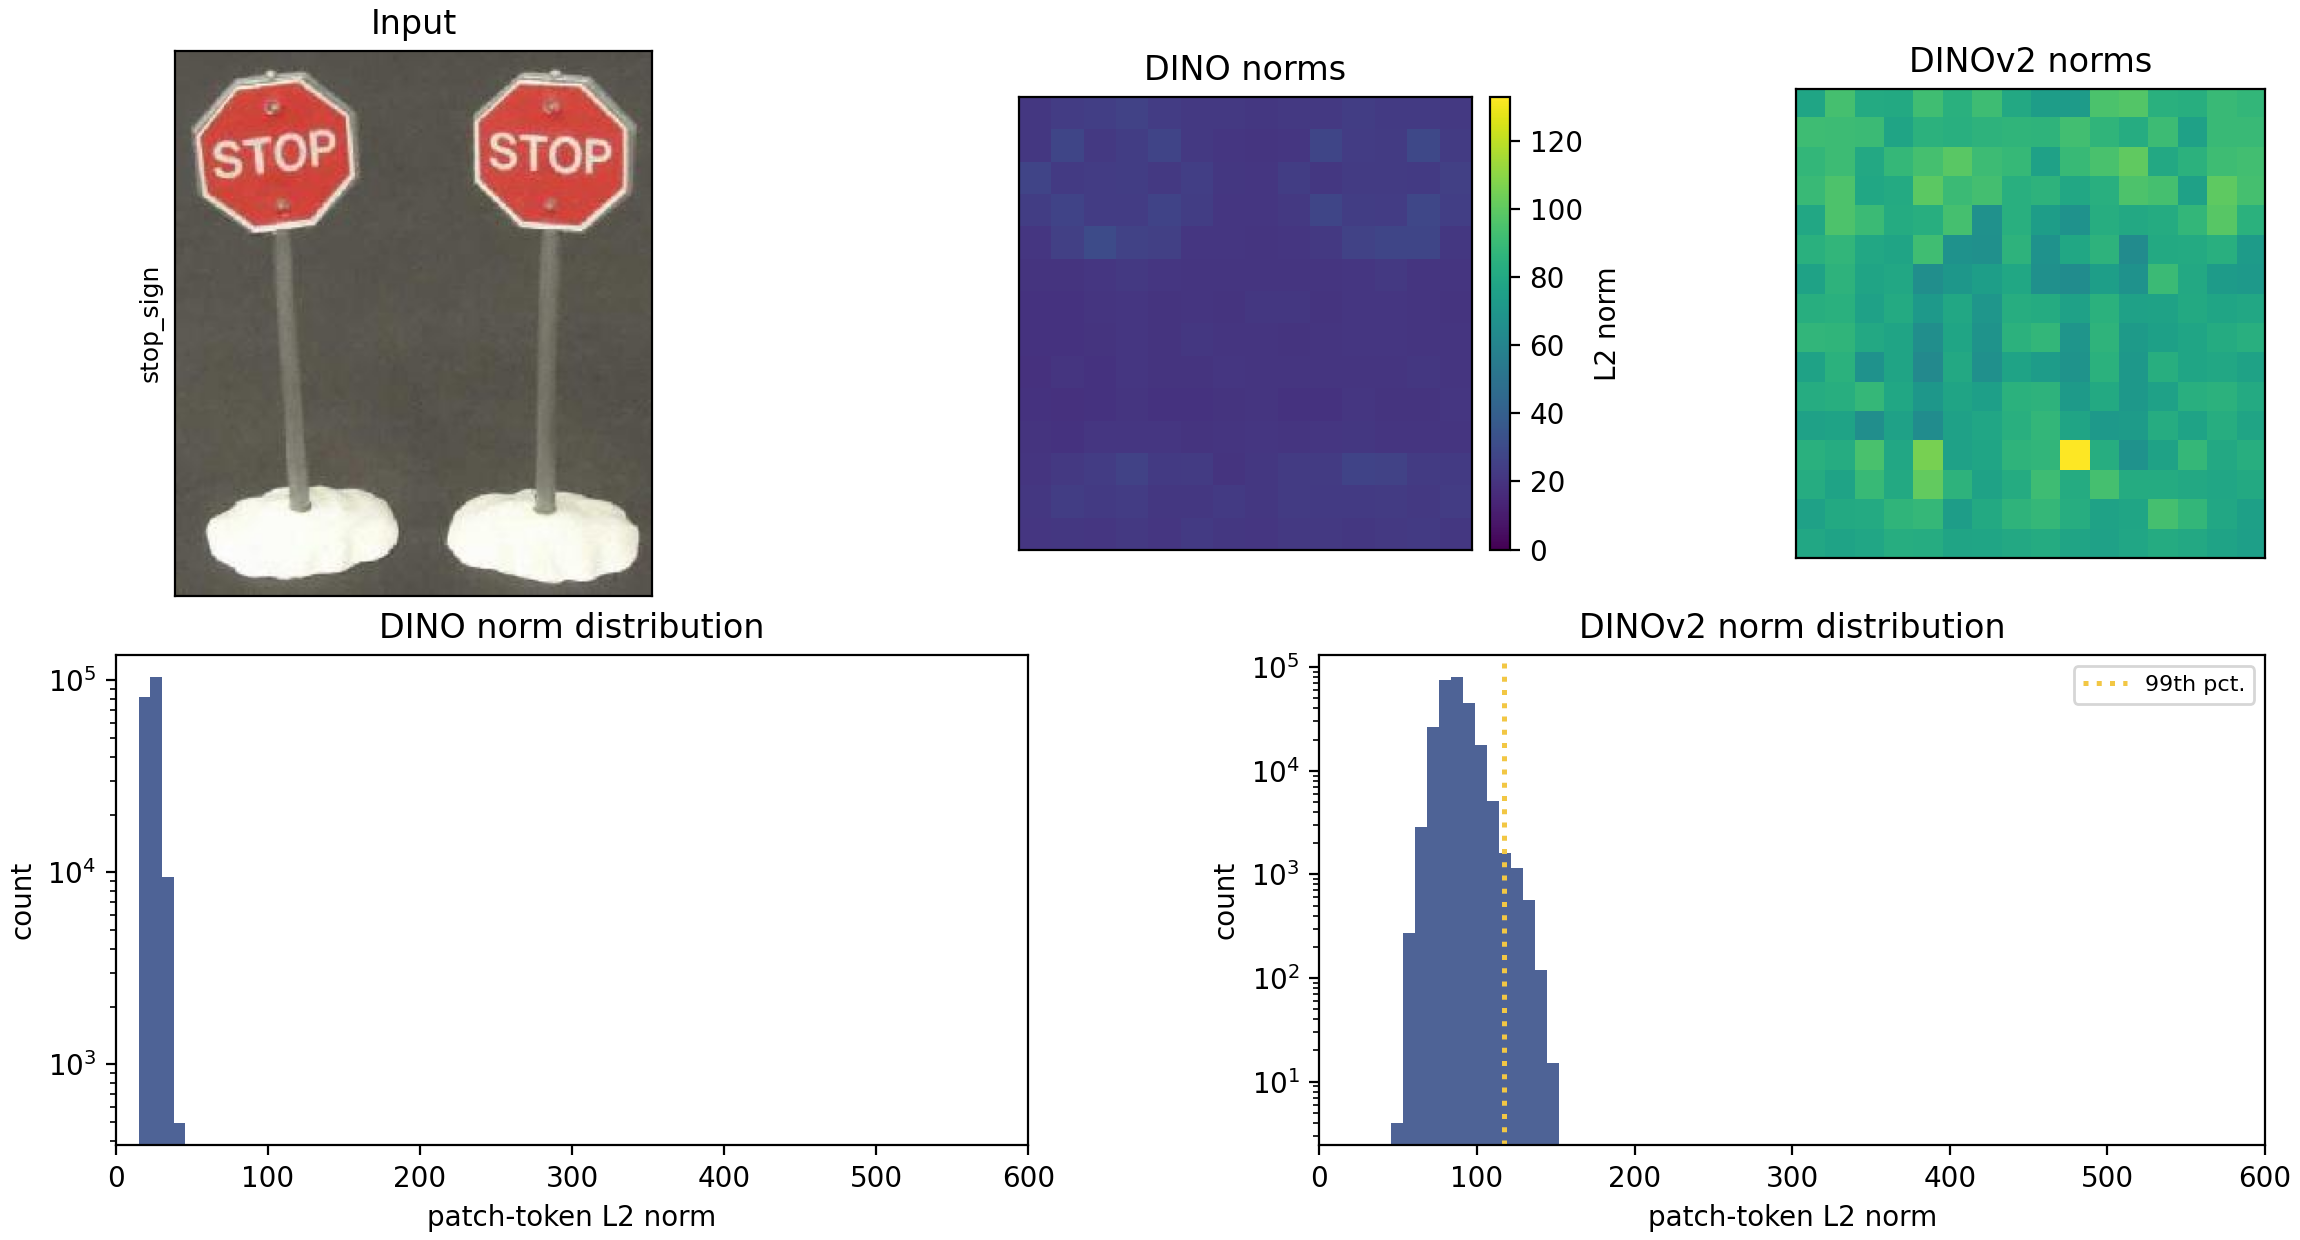
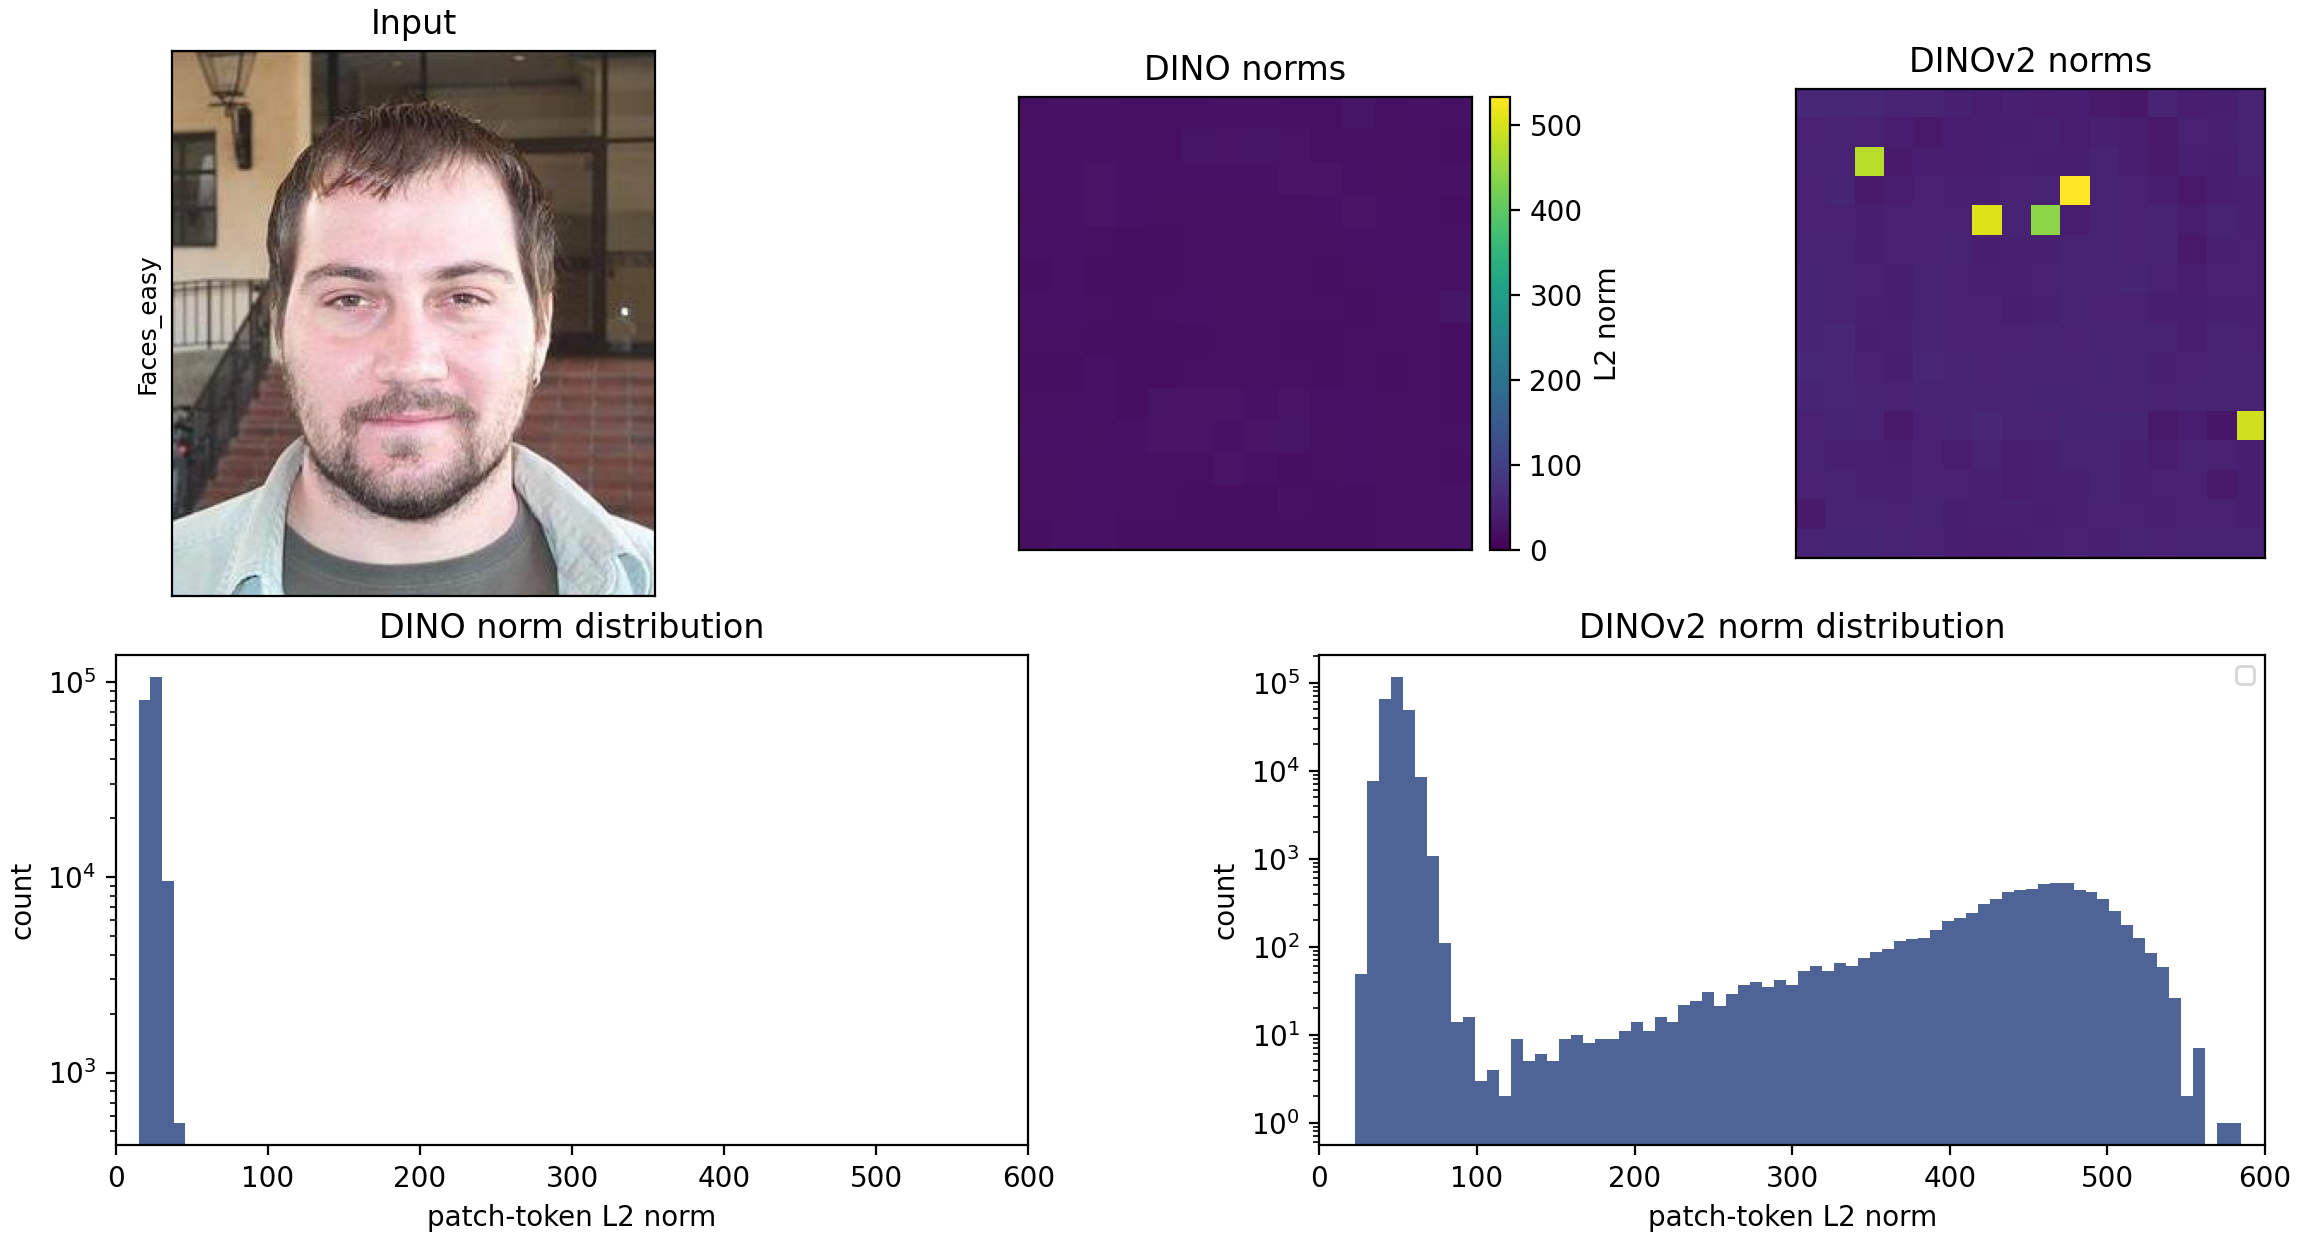
Revise sections on feature maps artifacts, methodology, and results; add figures and update discussions

diff --git a/report/ATML_Report_2026/inputs/K/methodology.tex b/report/ATML_Report_2026/inputs/K/methodology.tex
@@ -1,84 +1,43 @@
 \subsection{Methodology}
+
+
+
 This reproduction did \emph{not} use the authors' original code. Instead, it used an original implementation located under \texttt{src/Kun/scripts}, with one script per reproduced result: \texttt{make\_figure2.py}, \texttt{make\_figure3.py}, \texttt{make\_figure5.py}, and \texttt{make\_table1.py}. The implementation follows the procedure described in the paper and relies on public pretrained checkpoints loaded through \texttt{timm}, \texttt{open\_clip\_torch}, and Hugging Face \texttt{transformers}. Dataset loading is done through \texttt{torchvision} where possible otherwise is done through direct download from the dataset official website.
 
-\subsubsection{Datasets}
-
-\paragraph{Figures 2, 3, and 5.}
-all runs for Figures~2, 3, and 5 uses \texttt{Caltech101 via torchvision} as the image source.
-
-
-\paragraph{Table 1 datasets.}
-We use a subset of the following datasets:
-\texttt{cifar10, 10 classes}, \texttt{cifar100, 100 classes}, \texttt{caltech101, 101 classes}, \texttt{dtd, 47 classes}, \texttt{aircraft, 100 classes} , \texttt{flowers102, 102 classes}, \texttt{food101, 101 classe}. For each datasets we sample 500 training and 200 test images balanced across labels.
 
 \subsubsection{Hyperparameters}
-
-The most important hyperparameter across these experiments is the minimum norm value a patch feature vector must have in order to be considered as an outlier patch. In the paper this cutoff value is set heuristically to 150. 
-\begin{itemize}
-    \item For the 2 experiments in figure5 we use the same cutoff value.
-    \item For the Table1 experiments, outliers are defined using a soft cutoff equal to the 99th percentile of training-set patch norms, so that approximately 1\% of patches are labeled as outliers. In addition, if a given image contains no outlier patch under this rule, we fall back to selecting the highest-norm patch from that image as its outlier token.
-\end{itemize}
-
-\begin{table}[h]
-    \centering
-    \caption{Hyperparameters for the Figure~5b linear probes.}
-    \label{tab:figure5b-hparams}
-    \begin{tabular}{ll}
-        \toprule
-        Hyperparameter & Value \\
-        \midrule
-        Train fraction & 0.75 \\
-        Max epochs & 80 \\
-        Batch size & 512 \\
-        Learning rate & 0.001 \\
-        Optimizer & AdamW \\
-        Weight decay & $10^{-4}$ \\
-        Early stopping patience & 3 \\
-        Position probe loss & Cross-entropy \\
-        Reconstruction probe loss & MSE \\
-        Feature dimension & 1536 \\
-        Number of positions & 256 \\
-        Pixel target dimension & 588 \\
-        \bottomrule
-    \end{tabular}
-\end{table}
+The most important hyperparameter across these experiments is the minimum norm value a patch feature vector must have in order to be considered as an outlier patch. In the paper, this cutoff is chosen heuristically as 150; we use the same value unless otherwise specified.
 
 \subsubsection{Experimental setup and code}
 
-\paragraph{Figure 2 attention maps.}
-\texttt{make\_figure2.py} loads the 6 model families indicated by the paper and outputs the attention map, extracted from the last self-attention layer, of 4 random images.
 
-\paragraph{Figure 3 norm analysis.}
-\texttt{make\_figure3.py} compares the local features norms distribution for \texttt{DINO ViT-B/16} and \texttt{DINOv2 ViT-g/14} both on a single image and on a batch of 1000 images.
+\textbf{Visualization of attention maps (Paper Figure 2)}. We run 6 ViT models on 4 images sampled from \texttt{Caltech101} and visualize the attention map from the last self-attention layer. 
 
-\paragraph{Figure 5 local information probing.}
-\texttt{make\_figure5.py} uses\texttt{DINOv2 ViT-g/14} only and compares the cosine similarity of outlier/normal patches to its neighbor patches across 100 images. 
-In addition it performs linear probing for local information by training:
-\begin{itemize}
-    \item a linear classifier for patch-position prediction, and
-    \item a linear regressor for patch-pixel reconstruction.
-\end{itemize}.
-Linear probing is done with 500 images. 
+\textbf{DINO vs DINOv2 local feature norms (Paper Figure 3)}. We compare the local features norms distribution for \texttt{DINO ViT-B/16} and \texttt{DINOv2 ViT-g/14} both on a single image and on a batch of 1000 images sampled from \texttt{Caltech101}.
 
-\paragraph{Table 1 image classification probes.}
-\texttt{make\_table1.py} uses \texttt{DINOv2 ViT-g/14} as a frozen feature extractor:
-For each image in the dataset, the script extracts three candidate representations: the \texttt{[CLS]} token, one normal patch token, and one outlier patch token. It then trains three separate multinomial logistic regression classifiers, one per representation type.
+\textbf{Local properties of outlier patches (Paper Figure 5)}. We compare the distribution of cosine similarity between input patches embeddings and their 4 neighbors for both normal patches and outlier patches. In addition we perform linear probing for local information on both normal and outlier patches by training:
+namely (i) a linear classifier for patch-position prediction and (ii) a linear regressor for patch-pixel reconstruction.
+Probings are done with 500 images sampled from \texttt{Caltech101}. Normal and outlier patches are both present in the training split while we test them separately on evaluation. We report the hyperparameter of the 2 linear models: 
+\begin{table}[h]
+    \centering
+    \label{tab:figure5b-hparams}
+    \resizebox{\textwidth}{!}{%
+    \begin{tabular}{llllllllllll}
+        % \toprule
+        Train fraction & Max epochs & Batch size & Learning rate & Optimizer & Weight decay & Early stopping patience & Position probe loss & Reconstruction probe loss & Feature dimension & Number of positions & Pixel target dimension \\
+        \midrule
+        0.75 & 80 & 512 & 0.001 & AdamW & $10^{-4}$ & 3 & Cross-entropy & MSE & 1536 & 256 & 588 \\
+        \bottomrule
+    \end{tabular}%
+    }
+\end{table}
+The model used as features extractor is \texttt{DINOv2 ViT-g/14}
 
-\paragraph{Parameter counts.}
-The scripts do not record parameter counts. Insert the values here if they are needed in the final report:
+\textbf{Global properties of outlier patches (Paper Table 1)}
+We compare the class predictive capacity of different patch tokens: for each image we extract three candidate representations: the \texttt{[CLS]} token, one normal patch token, and one outlier patch token. We then trains three separate multinomial logistic regression classifiers, one per representation type. We fit the model on 8 different datasets, for each dataset we sample 500 images for training and 200 images for evaluation. If a certain image doesn't contain any outlier patch (norma > 150) we pick the the patch with the highest norm as outlier. The model used as features extractor is \texttt{DINOv2 ViT-g/14}
 
 
 \subsubsection{Computational requirements}
-The experiments executed locally on an Apple M4 Pro machine with 24\,GB unified memory. The mps backend is used whenever is possible; when some torch implementation are known to be unstable we fall back to cpu. 
+The experiments executed locally on an Apple M4 Pro machine with 24\,GB unified memory. The mps backend is used whenever is possible; when some torch implementation are known to be unstable we fall back to cpu.
+For experiment 1 the runtime is neglectable for every ViT model, for experiment 2 is $\approx 10 min$, for experiment 3 $\approx 10 min$, for experiment 4 $\approx 40 min$.  
 
-The following runtime and compute values should therefore be inserted from recorded experiment logs rather than inferred here:
-\begin{itemize}
-    \item \texttt{[INSERT AVERAGE RUNTIME FOR FIGURE 2 IN CPU MODE]}
-    \item \texttt{[INSERT AVERAGE RUNTIME FOR FIGURE 3 IN CPU MODE]}
-    \item \texttt{[INSERT AVERAGE RUNTIME FOR FIGURE 5a IN CPU MODE]}
-    \item \texttt{[INSERT AVERAGE RUNTIME FOR FIGURE 5b IN CPU MODE]}
-    \item \texttt{[INSERT AVERAGE RUNTIME FOR TABLE 1 PER DATASET]}
-    \item \texttt{[INSERT TOTAL WALL-CLOCK TIME / CPU-HOURS FOR THE REPORTED RUNS]}
-\end{itemize}
-
-Qualitatively, the most expensive operations in the scripts are repeated forward passes through DINOv2, especially in exact mode (\texttt{facebook/dinov2-giant}) and on larger datasets. Table~1 and Figure~5b are the most computationally demanding scripts because they combine feature extraction with downstream probe fitting.

diff --git a/report/ATML_Report_2026/inputs/K/results.tex b/report/ATML_Report_2026/inputs/K/results.tex
@@ -1,69 +1,31 @@
 \subsection{Results}
 \label{sec:results}
-The 4 experiments are intended to verify 4 qualitative claims of the original paper in relation to the main characteristic and information stored inside outlier patches embeddings. 
-The experiments confirms these claims 
+The 4 experiments are intended to verify 4 qualitative claims of the original paper in relation to the main characteristic and information stored inside outlier patches tokens representation. 
 
 \subsubsection{Results reproducing original paper}
 
-\subsubsubsection{Claim 1: all models but DINO exhibit peaky outlier values
-in the attention maps.}
+\textbf{Claim 1: all models but DINO exhibit peaky outlier values
+in the attention maps.} Our attention maps reproduce faithfully those in the paper where all models but DINO exhibit peaky outlier values (see \ref{fig:outlier_maps})
 
-% insert plot figure2
-\begin{figure}[ht]
-    \centering
-    \includegraphics[width=0.7\textwidth]{../../src/Kun/img/figure2_att_map.png}
-    \caption{Attention maps for 6 different model families.}
-    \label{fig:figure2}
-\end{figure}
+\textbf{Claim 2: DINOv2 has a few outlier patches, whereas DINO does not present these artifacts.}. Across 1000 images our experiment confirms that DINO does not present outlier patches whereas DINOv2 has them. The norm distribution of features extracted by DINO and DINOv2 resembles the distribution presented in the paper (see \ref{fig:dino_vs_dinov2})
 
-\subsubsubsection{Claim 2: DINOv2 has a few outlier patches, whereas DINO does not present these artifacts.}
-% insert plot figure3
-\begin{figure}[ht]
-    \centering
-    \includegraphics[width=0.7\textwidth]{../../src/Kun/img/figure3_norms.png}
-    \caption{Norm distribution of local features for DINO and DINOv2.}
-    \label{fig:figure3}
-\end{figure}
+\textbf{Claim 3: high-norm tokens appear where patch information is redundant and hold little local information}. Our experiment confirms that high norm tokens appears on patches that are very similar to their neighbors (see histogram in fig \ref{fig:neighbor_cosine}). Local probe results show that these high norm tokens hold little local information compared to normal norm tokens (see table in fig \ref{fig:neighbor_cosine}) since they achieve lower scores both in patch position prediction and patch reconstruction. 
 
-\subsubsubsection{Claim 3: high-norm tokens appear where patch information is redundant and hold little local information}
-% insert figure5a 
-\begin{figure}[ht]
-    \centering
-    \includegraphics[width=0.5\textwidth]{../../src/Kun/img/figure5a_neighbor_cosine.png}
-    \caption{Cosine similarity of outlier/normal patches to their neighbors.}
-    \label{fig:figure5a}
-\end{figure}
-
-% insert table 5b
-\begin{table}[h]
-    \centering
-    \footnotesize
-    \caption{Figure 5b local information probing results.}
-    \label{tab:figure5b-local-probes}
-    \begin{tabular}{lccc}
-        \toprule
-        Token group & Position top-1 acc. (\%) & Avg. distance & Reconstruction $L_2$ error \\
-        \midrule
-        Normal  & 19.4 & 1.19 & 17.78 \\
-        Outlier & 9.7  & 5.92 & 22.64 \\
-        \bottomrule
-    \end{tabular}
-\end{table}
-
-\subsubsubsection{Claim 4: high-norm tokens hold global information}
+\textbf{Claim 4: high-norm tokens hold global information}
+Our experiment confirms that outlier tokens have higher accuracy on global class prediction, compared to normal tokens, across all 8 datasets that we tasted proving that they contains more global information (see table \ref{tab:global-probes}). 
 
 \begin{table}[h]
     \centering
     \footnotesize
-    \caption{Reproduced Table~1 top-1 accuracy (\%) for classification from the \texttt{[CLS]} token, one normal patch token, and one outlier patch token.}
-    \label{tab:table1-probes}
+    \caption{Top-1 accuracy (\%) for classification from the \texttt{[CLS]} token, one normal patch token, and one outlier patch token.}
+    \label{tab:global-probes}
     \begin{tabular}{lcccccccc}
         \toprule
         Token & CIFAR10 & CIFAR100 & Caltech101 & DTD & FGVCAircraft & Flowers102 & Food101 & OxfordIIITPet \\
         \midrule
-        \texttt{[CLS]} & 99.00 & 85.00 & 92.00 & 77.00 & 51.50 & 99.50 & 79.00 & 92.50 \\
-        Normal patch   & 82.50 & 29.50 & 41.00 & 44.00 & 3.50  & 23.50 & 10.50 & 14.50 \\
-        Outlier patch  & 99.00 & 83.00 & 94.50 & 79.00 & 45.00 & 99.00 & 73.50 & 84.50 \\
+        \texttt{[CLS]} & 99.0 & 85.0 & 92.0 & 77.0 & 51.5 & 99.5 & 79.0 & 92.5 \\
+        Normal patch   & 82.5 & 29.5 & 41.0 & 44.0 & 3.5  & 23.5 & 10.5 & 14.5 \\
+        Outlier patch  & 99.0 & 83.0 & 94.5 & 79.0 & 45.0 & 99.0 & 73.5 & 84.5 \\
         \bottomrule
     \end{tabular}
 \end{table}

diff --git a/report/ATML_Report_2026/inputs/K/appendix.tex b/report/ATML_Report_2026/inputs/K/appendix.tex
@@ -1,0 +1,41 @@
+% insert plot figure2
+\begin{figure}[h]
+    \centering
+    \includegraphics[width=0.9\textwidth]{../../src/Kun/img/figure2_att_map.png}
+    \caption{Attention maps for 6 different model families.}
+    \label{fig:outlier_maps}
+\end{figure}
+
+% insert plot figure3
+\begin{figure}[h]
+    \centering
+    \includegraphics[width=0.9\textwidth]{../../src/Kun/img/figure3_norms.png}
+    \caption{Norm distribution of local features for DINO and DINOv2.}
+    \label{fig:dino_vs_dinov2}
+\end{figure}
+
+% insert figure5a 5b
+\begin{figure}[h]
+    \centering
+    \begin{minipage}{0.40\textwidth}
+        \centering
+        \includegraphics[width=\textwidth]{../../src/Kun/img/figure5a_neighbor_cosine.png}
+    \end{minipage}\hspace{0.02\textwidth}
+    \begin{minipage}{0.50\textwidth}
+        \centering
+        \footnotesize
+        \label{tab:local_probe}
+        \resizebox{\linewidth}{!}{%
+        \begin{tabular}{lccc}
+            \toprule
+            Token group & Position top-1 acc. (\%) & Avg. distance & Reconstruction $L_2$ error \\
+            \midrule
+            Normal  & 19.4 & 1.19 & 17.78 \\
+            Outlier & 9.7  & 5.92 & 22.64 \\
+            \bottomrule
+        \end{tabular}
+        }
+    \end{minipage}
+    \caption{local information probing: cosine similarity of outlier/normal patches to their neighbors (left) and local probe results (right).}
+    \label{fig:neighbor_cosine}
+\end{figure}

diff --git a/report/ATML_Report_2026/inputs/K/discussion.tex b/report/ATML_Report_2026/inputs/K/discussion.tex
@@ -1,16 +1,9 @@
 \subsection{Discussion}
 
-Give your judgment on if your experimental results support the claims of the paper. Discuss the strengths and weaknesses of your approach - perhaps you didn't have time to run all the experiments, or perhaps you did additional experiments that further strengthened the claims in the paper.
+All our experiments confirm claims from the paper regarding the definition of outlier patches and their information content compared to normal patches. 
 
 \subsubsection{What was easy}
-Give your judgment of what was easy to reproduce. Perhaps the author's code is clearly written and easy to run, so it was easy to verify the majority of original claims. Or, the explanation in the paper was really easy to follow and put into code. 
-
-Be careful not to give sweeping generalizations. Something that is easy for you might be difficult for others. Put what was easy in context and explain why it was easy (e.g. code had extensive API documentation and a lot of examples that matched experiments in papers).
+The paper describes clearly the pipeline followed to produce the results claimed even if the code was not released. 
 
 \subsubsection{What was difficult}
-List part of the reproduction study that took more time than you anticipated or you felt was difficult. 
-
-Be careful to put your discussion in context. For example, don't say "The maths was difficult to follow", say "The math requires advanced knowledge of calculus to follow". 
-
-\subsubsection{Communication with original authors}
-Document the extent of (or lack of) communication with the original authors. To make sure the reproducibility report is a fair assessment of the original research we recommend getting in touch with the original authors. We advise you to contact them through their email displayed in the paper and by asking specific questions.
+For the first 3 experiments the paper doesn't specify explicitly the datasets used but nevertheless results hold with the dataset chosen by us. Regarding the last experiment on different datasets, it was impractical for us to run probes on the full size of each datasets. Luckily, since ViT models often produce highly informative representations, probing on a small portion of the datasets is enough to verify qualitatively the main claims of the paper.  

diff --git a/report/ATML_Report_2026/inputs/K/K_main.tex b/report/ATML_Report_2026/inputs/K/K_main.tex
@@ -1,4 +1,8 @@
-\section{EXP 1}
+\section{Feature maps artifacts in ViT networks}
+
+The following experiments aim to identify and characterize artifacts in feature maps
+of both supervised and self-supervised ViT networks. According to the original paper, artifacts (or outlier) are defined as high-norm tokens appearing during inference primarily in low-informative back-
+ground areas of images, that are repurposed for internal computations. We verify claims concerning the emergence and the information contents of these artifacts.
 
 % Methodology
 \input{inputs/K/methodology.tex}